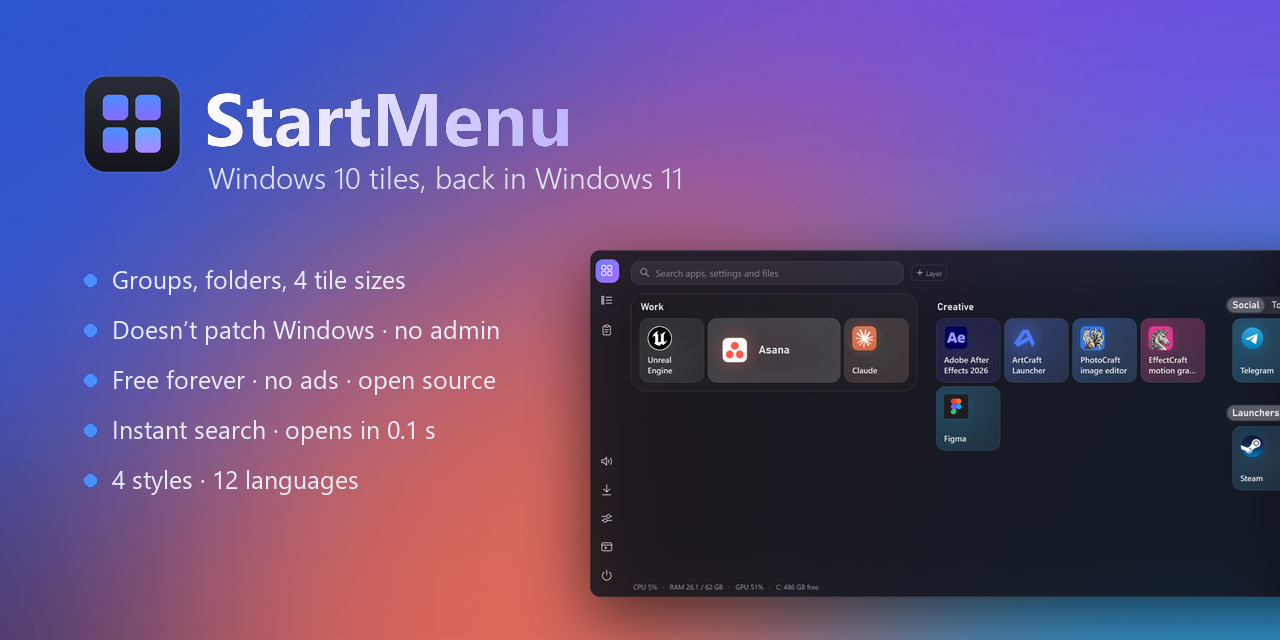
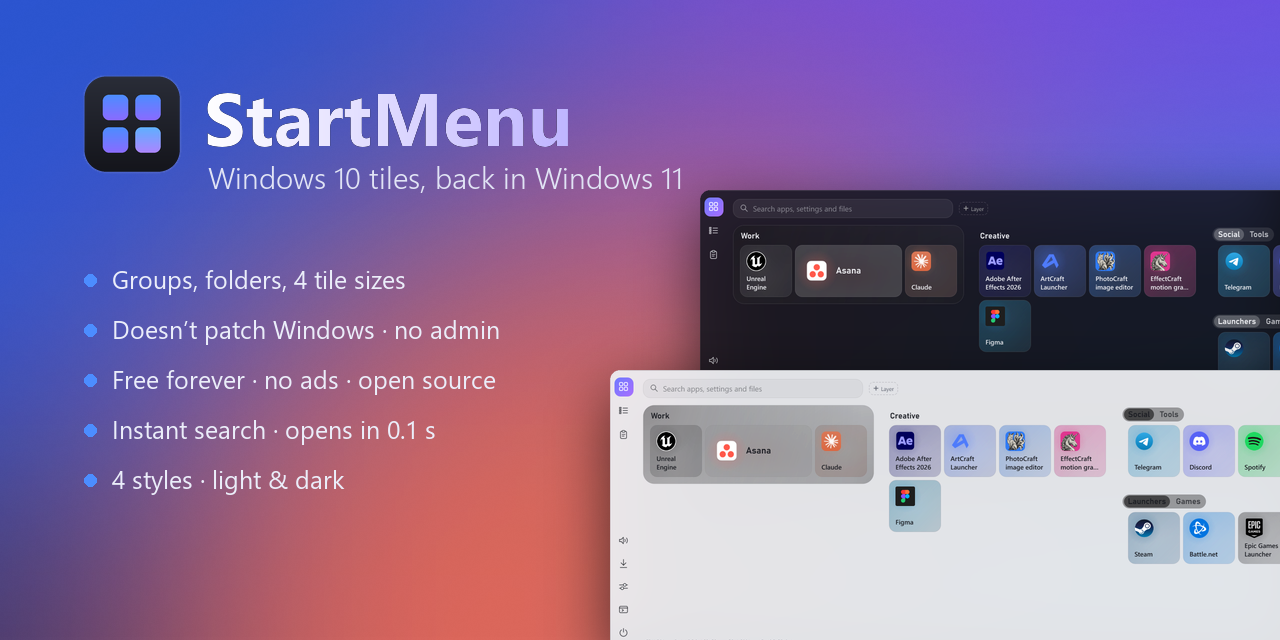
Light theme in previews: themes image in README and site, social preview with dark+light menu

diff --git a/docs/index.html b/docs/index.html
@@ -153,6 +153,8 @@
       <div class="style"><img src="images/style-bento.png" alt="Bento style" loading="lazy"><b>Bento</b><span>Card islands with a soft glow of icon colors</span></div>
       <div class="style"><img src="images/style-fluent.png" alt="Fluent style" loading="lazy"><b>Fluent</b><span>Glass and soft shapes in the spirit of Windows 11</span></div>
     </div>
+    <h3 style="margin-top:48px">Dark or light — or follow Windows</h3>
+    <img src="images/themes.png" alt="Dark and light theme" loading="lazy" style="width:100%;border-radius:14px;margin-top:14px">
   </div>
 </section>
 

diff --git a/README.ru.md b/README.ru.md
@@ -39,6 +39,10 @@
 
 <img src="docs/images/ru/variants.png" alt="С подписями и без, поверх обоев и на сплошном фоне" width="100%">
 
+Тёмная или светлая тема — или как в Windows, автоматически:
+
+<img src="docs/images/ru/themes.png" alt="Тёмная и светлая тема" width="100%">
+
 ## 🎵 Плеер
 
 Всё, что играет в Windows, — отдельной панелью над меню, с перемоткой и подсветкой в ритм.

diff --git a/README.md b/README.md
@@ -39,6 +39,10 @@ Labels or clean icons, glass or solid — colors, corners and size are yours too
 
 <img src="docs/images/variants.png" alt="With and without tile labels, over wallpaper and on a solid background" width="100%">
 
+Dark or light — or follow Windows automatically:
+
+<img src="docs/images/themes.png" alt="Dark and light theme" width="100%">
+
 ## 🎵 Music player
 
 Whatever plays in Windows — a separate panel above the menu with seeking and a beat glow.
